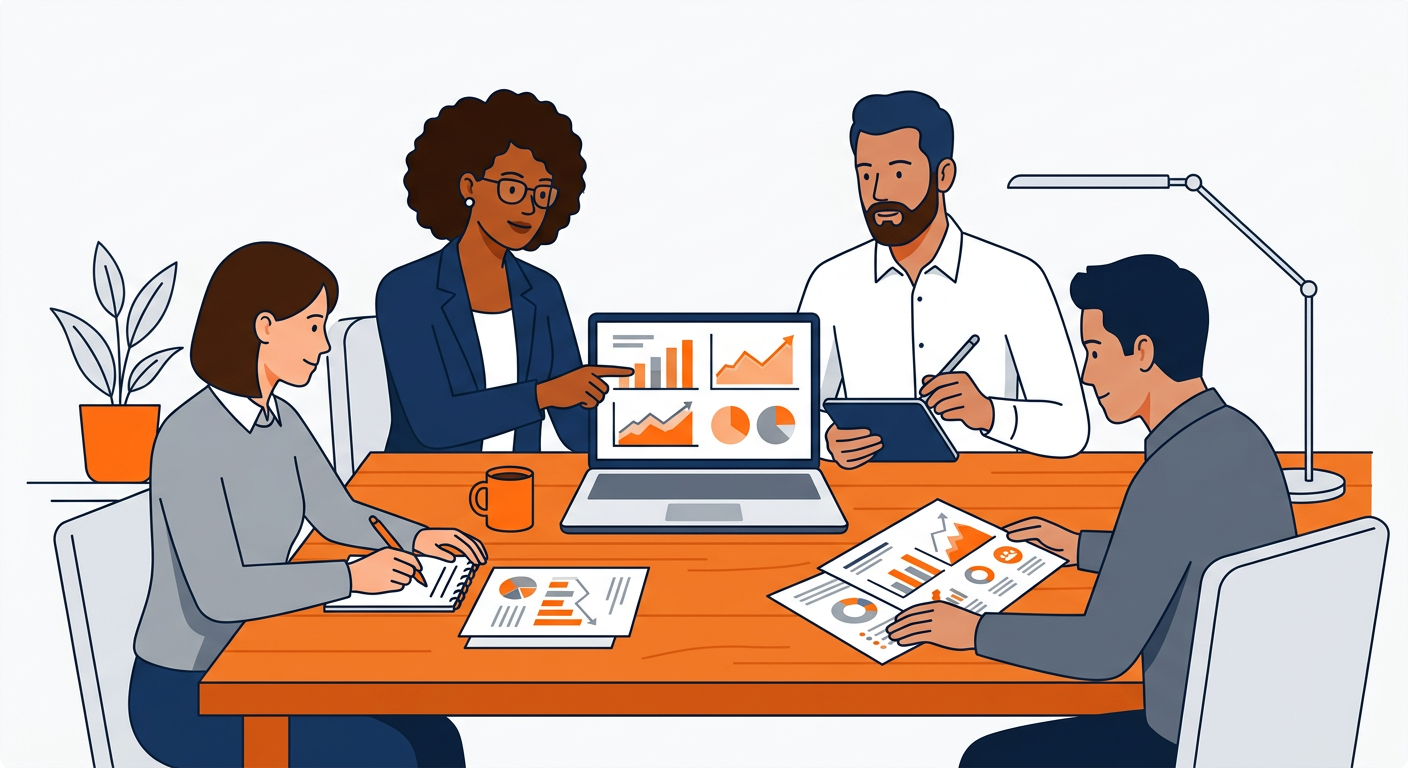
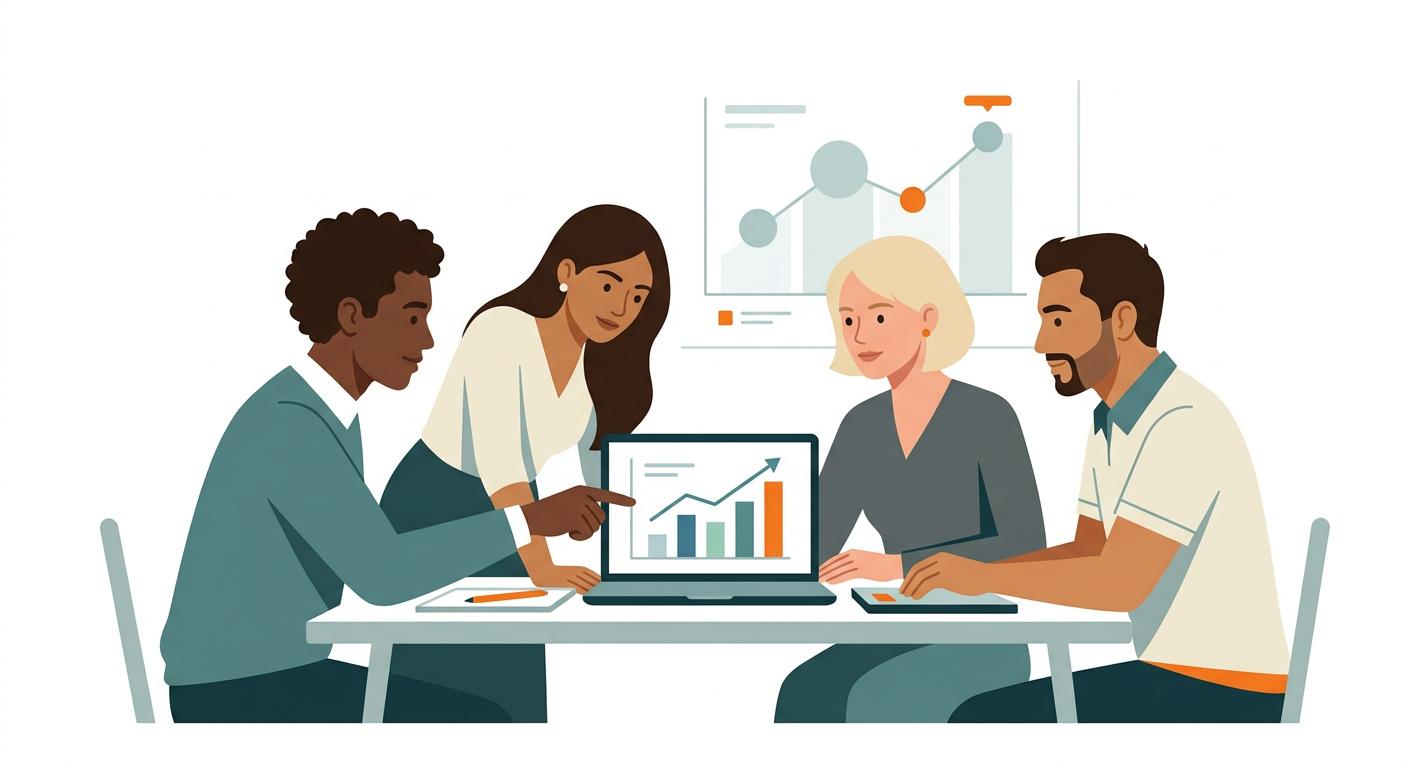
fix: premium final — pure white/dark image backgrounds match site, Healtify dark tools, professional report PDF
- Regenerate all illustrations with pure solid backgrounds (light #FFFFFF, dark #0F172A) no text, exact match to site --bg so image bg == site bg, wrappers transparent/bordered premium
- Light site --bg #FFFFFF, --bg-muted #F8FAFC, --border #E2E8F0, dark #0F172A; hero/about containers 20px radius, 1px border, 0 8px 24px shadow premium
- Hero premium: 48px padding, overline Trusted check, 44px Poppins with underline accent, Check now CTA pill 999px, hero image bordered premium
- Tools section premium dark #0F172A like Healtify page2, white cards with #FFF7ED top + 64px white circle orange icon 28px 1.7 stroke, hover lift
- About section plain flex (not card) like Healtify page3, 48px gap, premium
- Report premium: sticky header blur, Professional report badge, score dial premium, table th bg muted 11px uppercase, print @media hide header/footer, A4 margins, break-inside avoid, clean PDF

diff --git a/server.js b/server.js
@@ -707,9 +707,10 @@ function layout({title, body, extraHead=''}) {
 <script src="https://cdn.jsdelivr.net/npm/alpinejs@3/dist/cdn.min.js" defer></script>
 <link href="https://fonts.googleapis.com/css2?family=Inter:wght@400;500;600;700&family=Poppins:wght@600;700&family=Manrope:wght@400;500&family=JetBrains+Mono:wght@400;500&display=swap" rel="stylesheet">
 <style>
-:root{--bg:#FFF7ED;--bg-muted:#FFFBEB;--border:#FED7AA;--text:#431407;--text-muted:#9A3412;--accent:#F97316;--accent-hover:#EA580C;--success:#065F46;--warning:#92400E;--danger:#B42318}
+:root{--bg:#FFFFFF;--bg-muted:#F8FAFC;--border:#E2E8F0;--text:#0F172A;--text-muted:#64748B;--accent:#F97316;--accent-hover:#EA580C;--success:#065F46;--warning:#92400E;--danger:#B42318}
 html.dark{--bg:#0F172A;--bg-muted:#1E293B;--border:#334155;--text:#F1F5F9;--text-muted:#94A3B8;--accent:#FB923C;--accent-hover:#F97316;--success:#10B981;--warning:#F59E0B;--danger:#F87171}
 html.dark body{background:var(--bg);color:var(--text)}
+html.dark .header{background:rgba(15,23,42,.92)}
 html.dark .header{background:rgba(15,23,42,.96);border-color:var(--border)}
 html.dark .card{background:#1E293B;border-color:var(--border)}
 html.dark .card-muted{background:var(--bg-muted)}
@@ -725,7 +726,7 @@ a{color:inherit;text-decoration:none}
 h1,h2,h3{line-height:1.2;letter-spacing:-.02em}
 .container{max-width:1120px;margin:0 auto;padding:0 16px}
 @media(min-width:768px){.container{padding:0 24px}}
-.header{height:64px;border-bottom:1px solid var(--border);position:sticky;top:0;background:rgba(255,255,255,.96);backdrop-filter:blur(8px);z-index:50;box-shadow:0 16px 52px -34px rgba(0,0,0,.10)}
+.header{height:72px;border-bottom:1px solid var(--border);position:sticky;top:0;background:rgba(255,255,255,.92);backdrop-filter:blur(12px);z-index:50;box-shadow:0 1px 3px rgba(15,23,42,.06)}
 .header-inner{display:flex;align-items:center;justify-content:space-between;height:64px;gap:16px}
 .logo{font-weight:700;font-size:18px;display:flex;align-items:center;gap:10px;letter-spacing:-.02em}
 .logo-mark{width:32px;height:32px;background:var(--accent);border-radius:8px;display:flex;align-items:center;justify-content:center;color:white;font-weight:700;font-size:14px}
@@ -733,12 +734,12 @@ h1,h2,h3{line-height:1.2;letter-spacing:-.02em}
 .nav a{padding:8px 4px;border-bottom:2px solid transparent;transition:all 150ms}
 .nav a:hover{color:var(--text);border-bottom-color:var(--border)}
 .nav a.active{color:var(--text);border-bottom-color:var(--accent)}
-.btn-primary{background:var(--accent);color:white;border:none;border-radius:8px;padding:11px 18px;font-weight:600;font-size:14px;cursor:pointer;transition:all 150ms;box-shadow:0 16px 52px -34px rgba(0,0,0,.18);display:inline-flex;align-items:center;gap:6px}
+.btn-primary{background:var(--accent);color:white;border:none;border-radius:999px;padding:12px 20px;font-weight:600;font-size:14px;cursor:pointer;transition:all 200ms;box-shadow:0 4px 14px rgba(249,115,22,.28);display:inline-flex;align-items:center;gap:8px;letter-spacing:.01em}
 .btn-primary:hover{background:var(--accent-hover);transform:translateY(-1px);box-shadow:0 4px 12px rgba(249,115,22,.25)}
 .btn-secondary{background:white;border:1px solid var(--border);border-radius:8px;padding:10px 16px;font-weight:500;font-size:14px;cursor:pointer;transition:all 150ms}
 .btn-secondary:hover{border-color:var(--text-muted);background:var(--bg-muted)}
-.card{border:1px solid var(--border);border-radius:12px;background:white;box-shadow:0 1px 2px rgba(16,24,40,.06);padding:20px;transition:all 150ms}
-.card:hover{box-shadow:0 8px 24px rgba(16,24,40,.12);transform:translateY(-1px)}
+.card{border:1px solid var(--border);border-radius:16px;background:white;box-shadow:0 1px 3px rgba(15,23,42,.05), 0 4px 12px rgba(15,23,42,.04);padding:22px;transition:all 200ms}
+.card:hover{box-shadow:0 8px 24px rgba(15,23,42,.10), 0 4px 8px rgba(15,23,42,.06);transform:translateY(-2px)}
 @media(min-width:768px){.card{padding:24px}}
 .card-muted{background:var(--bg-muted);border-color:var(--border)}
 .badge{display:inline-flex;align-items:center;padding:3px 10px;border-radius:999px;font-size:12px;font-weight:600;border:1px solid var(--border);letter-spacing:.02em}
@@ -758,8 +759,8 @@ h1,h2,h3{line-height:1.2;letter-spacing:-.02em}
 .category-bar{height:6px;background:var(--bg-muted);border-radius:999px;overflow:hidden}
 .category-fill{height:100%;border-radius:999px;transition:width 600ms ease}
 .table{width:100%;border-collapse:collapse;font-size:14px}
-.table th{font-weight:600;color:var(--text-muted);text-align:left;padding:10px 12px;border-bottom:1px solid var(--border);font-size:12px;text-transform:uppercase;letter-spacing:.05em;white-space:nowrap}
-.table td{padding:12px;border-bottom:1px solid var(--border);vertical-align:top}
+.table th{font-weight:600;color:var(--text-muted);text-align:left;padding:12px 14px;border-bottom:1px solid var(--border);font-size:11px;text-transform:uppercase;letter-spacing:.06em;white-space:nowrap;background:var(--bg-muted)}
+.table td{padding:14px;border-bottom:1px solid var(--border);vertical-align:top}
 .table tr{height:44px}
 .table tr:hover{background:var(--bg-muted)}
 .wrap{overflow-wrap:anywhere;word-break:break-word}
@@ -771,6 +772,14 @@ h1,h2,h3{line-height:1.2;letter-spacing:-.02em}
 .footer h4{font-size:14px;font-weight:600;margin:0 0 12px;color:var(--text)}
 .footer a{font-size:14px;color:var(--text-muted);display:block;margin:7px 0;transition:color 150ms}
 .footer a:hover{color:var(--text)}
+@media print{
+  .header,.footer,.mobile-menu,#themeToggle{display:none!important}
+  body{background:white!important;color:#0F172A!important}
+  .card{box-shadow:none!important;border:1px solid #E2E8F0!important;break-inside:avoid}
+  .table{font-size:11px}
+  .score-dial{border-width:3px!important;width:72px!important;height:72px!important;font-size:20px!important}
+  @page{margin:16mm 12mm}
+}
 @media(prefers-reduced-motion:reduce){*{transition:none!important;animation:none!important}}
 </style>
 ${extraHead}
@@ -842,9 +851,10 @@ document.getElementById('mobileBtn')?.addEventListener('click',()=>{
 function homePage() {
   const body = `
   <main>
-    <section class="container" style="padding:32px 16px 24px">
+    <section class="container" style="padding:48px 16px 36px">
       <div style="display:flex;align-items:center;justify-content:space-between;gap:32px;flex-wrap:wrap">
-        <div style="flex:1;min-width:280px;max-width:520px">
+        <div style="flex:1;min-width:280px;max-width:560px">
+          <div style="display:inline-flex;align-items:center;gap:8px;font-size:11px;letter-spacing:.08em;text-transform:uppercase;color:var(--text-muted);font-weight:600;margin-bottom:12px"><span style="width:24px;height:2px;background:var(--accent);border-radius:99px"></span> Trusted check · No signup</div>
           <h1 style="font-family:Poppins, Inter, sans-serif;font-size:44px;font-weight:700;letter-spacing:-.04em;line-height:1.02;margin:0;color:var(--text)">Check your site<br><span style="color:var(--accent);position:relative">properly<span style="position:absolute;left:0;right:0;bottom:-4px;height:6px;background:var(--accent);opacity:.15;border-radius:99px"></span></span></h1>
           <p style="font-family:Manrope, Inter, sans-serif;font-size:16px;color:var(--text-muted);margin:14px 0 24px;line-height:1.6;max-width:460px">Drop your link. We'll open the pages for real and tell you what to fix.</p>
           <form id="heroForm" onsubmit="return startAudit(event)" style="display:flex;gap:8px;align-items:center;background:white;border:1.5px solid var(--border);border-radius:12px;padding:6px;box-shadow:0 1px 2px rgba(16,24,40,.06);max-width:520px">
@@ -859,40 +869,40 @@ function homePage() {
           </form>
           <div id="heroProgress" style="display:none;margin-top:14px"></div>
         </div>
-        <div style="flex:1;min-width:280px;max-width:520px;display:flex;align-items:center;justify-content:center;background:transparent;border-radius:16px;padding:4px">
+        <div style="flex:1;min-width:320px;max-width:540px;display:flex;align-items:center;justify-content:center;background:var(--bg);border:1px solid var(--border);border-radius:20px;padding:12px;box-shadow:0 8px 24px rgba(15,23,42,.06)">
           <img src="/hero-illustration.png" alt="Website audit light" class="light-img" style="width:100%;max-width:480px;height:auto;border-radius:12px;object-fit:contain" loading="lazy" />
           <img src="/hero-illustration-dark.png" alt="Website audit dark" class="dark-img" style="width:100%;max-width:480px;height:auto;border-radius:12px;object-fit:contain" loading="lazy" />
         </div>
       </div>
     </section>
-    <section style="background:var(--bg-muted);border-top:1px solid var(--border);border-bottom:1px solid var(--border);padding:28px 0;margin-top:12px">
+    <section style="background:#0F172A;border-top:1px solid #1E293B;border-bottom:1px solid #1E293B;padding:48px 0;margin-top:24px">
       <div class="container">
         <div style="text-align:center;max-width:640px;margin:0 auto 20px">
-          <h2 style="font-family:Poppins, sans-serif;font-size:22px;font-weight:600;margin:0">Four ways to check</h2>
-          <p style="font-family:Manrope, sans-serif;font-size:14px;color:var(--text-muted);margin:6px 0 0">Pick one. Each one shows real proof.</p>
+          <h2 style="font-family:Poppins, sans-serif;font-size:24px;font-weight:700;margin:0;color:#F8FAFC;letter-spacing:-.02em">Four ways to check</h2>
+          <p style="font-family:Manrope, sans-serif;font-size:14px;color:#94A3B8;margin:8px 0 0">Pick one. Each one shows real proof with clean evidence.</p>
         </div>
         <div style="display:grid;grid-template-columns:repeat(auto-fit,minmax(240px,1fr));gap:14px">
           <a href="/seo-audit" class="card" style="padding:0;overflow:hidden;display:block">
-            <div style="height:140px;background:white;display:flex;align-items:center;justify-content:center;padding:16px;border-bottom:1px solid var(--border)"><svg width="90" height="90" viewBox="0 0 24 24" fill="none" stroke="var(--accent)" stroke-width="1.6"><circle cx="11" cy="11" r="7"/><path d="M20 20l-3.5-3.5"/></svg></div>
+            <div style="height:148px;background:#FFF7ED;display:flex;align-items:center;justify-content:center;padding:16px;border-bottom:1px solid var(--border)"><div style="width:64px;height:64px;background:white;border:1px solid #FED7AA;border-radius:16px;display:flex;align-items:center;justify-content:center;box-shadow:0 2px 8px rgba(249,115,22,.12)"><svg width="28" height="28" viewBox="0 0 24 24" fill="none" stroke="var(--accent)" stroke-width="1.7"><circle cx="11" cy="11" r="7"/><path d="M20 20l-3.5-3.5"/></svg></div></div>
             <div style="padding:16px"><h3 style="margin:0 0 6px;font-size:15px;font-weight:600;display:flex;align-items:center;gap:8px"><span style="width:28px;height:28px;border-radius:8px;background:var(--bg-muted);border:1px solid var(--border);display:flex;align-items:center;justify-content:center"><svg width="14" height="14" viewBox="0 0 24 24" fill="none" stroke="var(--accent)" stroke-width="1.8"><circle cx="11" cy="11" r="7"/><path d="M20 20l-3.5-3.5"/></svg></span> SEO Audit</h3><p style="font-size:13px;color:var(--text-muted);margin:0;line-height:1.5">Titles, metas, headings and indexability.</p></div>
           </a>
           <a href="/adsense-audit" class="card" style="padding:0;overflow:hidden;display:block">
-            <div style="height:140px;background:white;display:flex;align-items:center;justify-content:center;padding:16px;border-bottom:1px solid var(--border)"><svg width="90" height="90" viewBox="0 0 24 24" fill="none" stroke="var(--accent)" stroke-width="1.6"><circle cx="12" cy="12" r="9"/><path d="M12 8v8M8 12h8"/></svg></div>
+            <div style="height:148px;background:#FFF7ED;display:flex;align-items:center;justify-content:center;padding:16px;border-bottom:1px solid var(--border)"><div style="width:64px;height:64px;background:white;border:1px solid #FED7AA;border-radius:16px;display:flex;align-items:center;justify-content:center;box-shadow:0 2px 8px rgba(249,115,22,.12)"><svg width="28" height="28" viewBox="0 0 24 24" fill="none" stroke="var(--accent)" stroke-width="1.7"><circle cx="12" cy="12" r="9"/><path d="M12 8v8M8 12h8"/></svg></div></div>
             <div style="padding:16px"><h3 style="margin:0 0 6px;font-size:15px;font-weight:600;display:flex;align-items:center;gap:8px"><span style="width:28px;height:28px;border-radius:8px;background:var(--bg-muted);border:1px solid var(--border);display:flex;align-items:center;justify-content:center"><svg width="14" height="14" viewBox="0 0 24 24" fill="none" stroke="var(--accent)" stroke-width="1.8"><path d="M9 12l2 2 4-4"/><circle cx="12" cy="12" r="9"/></svg></span> AdSense Audit</h3><p style="font-size:13px;color:var(--text-muted);margin:0;line-height:1.5">Ready for AdSense review</p></div>
           </a>
           <a href="/speed-audit" class="card" style="padding:0;overflow:hidden;display:block">
-            <div style="height:140px;background:white;display:flex;align-items:center;justify-content:center;padding:16px;border-bottom:1px solid var(--border)"><svg width="90" height="90" viewBox="0 0 24 24" fill="none" stroke="var(--accent)" stroke-width="1.6"><path d="M12 6v6l4 2"/><circle cx="12" cy="12" r="9"/></svg></div>
+            <div style="height:148px;background:#FFF7ED;display:flex;align-items:center;justify-content:center;padding:16px;border-bottom:1px solid var(--border)"><div style="width:64px;height:64px;background:white;border:1px solid #FED7AA;border-radius:16px;display:flex;align-items:center;justify-content:center;box-shadow:0 2px 8px rgba(249,115,22,.12)"><svg width="28" height="28" viewBox="0 0 24 24" fill="none" stroke="var(--accent)" stroke-width="1.7"><path d="M12 6v6l4 2"/><circle cx="12" cy="12" r="9"/></svg></div></div>
             <div style="padding:16px"><h3 style="margin:0 0 6px;font-size:15px;font-weight:600;display:flex;align-items:center;gap:8px"><span style="width:28px;height:28px;border-radius:8px;background:var(--bg-muted);border:1px solid var(--border);display:flex;align-items:center;justify-content:center"><svg width="14" height="14" viewBox="0 0 24 24" fill="none" stroke="var(--accent)" stroke-width="1.8"><path d="M13 2L3 14h8l-1 8 10-12h-8z"/></svg></span> Speed Audit</h3><p style="font-size:13px;color:var(--text-muted);margin:0;line-height:1.5">Page weight and blocking time</p></div>
           </a>
           <a href="/link-audit" class="card" style="padding:0;overflow:hidden;display:block">
-            <div style="height:140px;background:white;display:flex;align-items:center;justify-content:center;padding:16px;border-bottom:1px solid var(--border)"><svg width="90" height="90" viewBox="0 0 24 24" fill="none" stroke="var(--accent)" stroke-width="1.6"><path d="M10 13a5 5 0 007.54.54l3-3a5 5 0 00-7.07-7.07l-1.72 1.71"/><path d="M14 11a5 5 0 00-7.54-.54l-3 3a5 5 0 007.07 7.07l1.71-1.71"/></svg></div>
+            <div style="height:148px;background:#FFF7ED;display:flex;align-items:center;justify-content:center;padding:16px;border-bottom:1px solid var(--border)"><div style="width:64px;height:64px;background:white;border:1px solid #FED7AA;border-radius:16px;display:flex;align-items:center;justify-content:center;box-shadow:0 2px 8px rgba(249,115,22,.12)"><svg width="28" height="28" viewBox="0 0 24 24" fill="none" stroke="var(--accent)" stroke-width="1.7"><path d="M10 13a5 5 0 007.54.54l3-3a5 5 0 00-7.07-7.07l-1.72 1.71"/><path d="M14 11a5 5 0 00-7.54-.54l-3 3a5 5 0 007.07 7.07l1.71-1.71"/></svg></div></div>
             <div style="padding:16px"><h3 style="margin:0 0 6px;font-size:15px;font-weight:600;display:flex;align-items:center;gap:8px"><span style="width:28px;height:28px;border-radius:8px;background:var(--bg-muted);border:1px solid var(--border);display:flex;align-items:center;justify-content:center"><svg width="14" height="14" viewBox="0 0 24 24" fill="none" stroke="var(--accent)" stroke-width="1.8"><circle cx="12" cy="12" r="3"/><path d="M10 13a5 5 0 007.54.54l3-3a5 5 0 00-7.07-7.07l-1.72 1.71"/></svg></span> Link Audit</h3><p style="font-size:13px;color:var(--text-muted);margin:0;line-height:1.5">Links and redirects</p></div>
           </a>
         </div>
       </div>
     </section>
-    <section class="container" style="padding:28px 16px">
-      <div style="display:flex;gap:32px;align-items:center;flex-wrap:wrap;background:white;border:1px solid var(--border);border-radius:12px;padding:20px">
+    <section class="container" style="padding:48px 16px">
+      <div style="display:flex;gap:48px;align-items:center;flex-wrap:wrap">
         <div style="flex:1;min-width:240px">
           <h2 style="font-family:Poppins, sans-serif;font-size:18px;font-weight:600;margin:0 0 8px">What you get</h2>
           <p style="font-size:13px;color:var(--text-muted);margin:0 0 12px;line-height:1.6">We load the pages for real and keep a snapshot you can open for every point.</p>
@@ -902,7 +912,7 @@ function homePage() {
             <div><div style="font-size:18px;font-weight:700">4</div><div style="font-size:11px;color:var(--text-muted);text-transform:uppercase;letter-spacing:.05em">tools</div></div>
           </div>
         </div>
-        <div style="flex:1;min-width:260px;display:flex;justify-content:center;background:var(--bg);border-radius:12px;padding:6px"><img src="/about-illustration.png" alt="Team light" class="light-img" style="width:100%;max-width:420px;height:auto;border-radius:8px;object-fit:contain" loading="lazy" /><img src="/about-illustration-dark.png" alt="Team dark" class="dark-img" style="width:100%;max-width:420px;height:auto;border-radius:8px;object-fit:contain" loading="lazy" /></div>
+        <div style="flex:1;min-width:320px;display:flex;justify-content:center;background:var(--bg);border:1px solid var(--border);border-radius:20px;padding:12px;box-shadow:0 8px 24px rgba(15,23,42,.06)"><img src="/about-illustration.png" alt="Team light" class="light-img" style="width:100%;max-width:420px;height:auto;border-radius:8px;object-fit:contain" loading="lazy" /><img src="/about-illustration-dark.png" alt="Team dark" class="dark-img" style="width:100%;max-width:420px;height:auto;border-radius:8px;object-fit:contain" loading="lazy" /></div>
       </div>
     </section>
     <section class="container" style="padding:16px 16px 24px" x-data="{open:1}">
@@ -1228,7 +1238,7 @@ function reportPage(scanId) {
 
   const body = `
   <main>
-    <div style="position:sticky;top:64px;background:white;border-bottom:1px solid var(--border);z-index:40;padding:12px 0">
+    <div style="position:sticky;top:72px;background:rgba(255,255,255,.96);backdrop-filter:blur(8px);border-bottom:1px solid var(--border);z-index:40;padding:16px 0" class="report-sticky">
       <div class="container" style="display:flex;gap:16px;align-items:center;flex-wrap:wrap;justify-content:space-between">
         <div style="display:flex;gap:16px;align-items:center">
           <div class="score-dial score-${scan.grade}" style="width:64px;height:64px;font-size:20px;border-width:4px">${scan.toolScore ?? ' '}</div>
@@ -1247,6 +1257,7 @@ function reportPage(scanId) {
     </div>
 
     <div class="container" style="padding:24px 16px">
+      <div style="display:flex;gap:12px;align-items:center;margin-bottom:16px;font-size:12px;color:var(--text-muted);flex-wrap:wrap"><span style="display:inline-flex;align-items:center;gap:6px;border:1px solid var(--border);border-radius:999px;padding:6px 12px;background:var(--bg-muted);font-weight:600;letter-spacing:.04em;text-transform:uppercase">Professional report</span><span>Generated ${new Date(scan.finished_at||Date.now()).toLocaleDateString()} · ${new URL(scan.url).hostname}</span></div>
       ${scan.status==='partial' ? `<div class="card" style="border-color:var(--warning);background:#FFF7ED;margin-bottom:16px"><strong style="color:var(--warning)">Partial results</strong><p style="font-size:14px;color:var(--text-muted);margin:4px 0">Some pages were blocked or returned no HTML. Affected checks are marked unknown and excluded from scoring.</p></div>` : ''}
 
       <!-- Category grid -->
